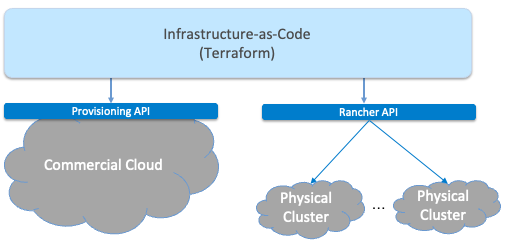
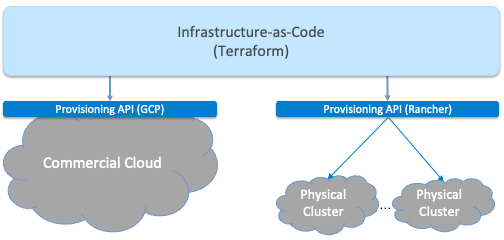
started Terraform section

diff --git a/provision.rst b/provision.rst
@@ -24,10 +24,14 @@ on a commercial cloud) the "rack and connect" step is carried out by
 sequence of API calls rather a hands-on technician.  Of course, we
 want to automate the sequence of calls needed to activate virtual
 infrastructure, which has inspired an approach know as
-*infrastructure-as-code*. The general idea is to document, in a
+*infrastructure-as-code*..\ [#]_ The general idea is to document, in a
 declarative format that can be "executed", exactly what our
 infrastructure looks like. We use Terraform as our open source
 approach to infrastructure-as-code.
+
+.. [#] *Infrastructure-as-Code* is a special case of the more general
+       concept of *Configuration-as-Code*, which we discuss in much
+       more detail in Chapter 4.
 
 When a cloud is built from a combination of virtual and physical
 resources, as is the case for a hybrid cloud like like Aether, we need
@@ -305,14 +309,14 @@ structure.
 3.1.2 Configure and Boot
 ~~~~~~~~~~~~~~~~~~~~~~~~
 
-In addition to installing the hardware and recording the relevant
-facts about the installation, the other necessary step is to configure
-and boot the hardware so that it is "ready" for the automated
-procedures that follow. The goal is to minimize manual configuration
-required to onboard physical infrastructure like that shown in
-:numref:`Figure %s <fig-cable_plan>`, but *zero-touch* is a high
-bar. To illustrate, the bootstrapping steps needed to complete
-provisioning for our example POD currently includes:
+After installing the hardware and recording the relevant facts about
+the installation, the next step is to configure and boot the hardware
+so that it is "ready" for the automated procedures that follow. The
+goal is to minimize manual configuration required to onboard physical
+infrastructure like that shown in :numref:`Figure %s
+<fig-cable_plan>`, but *zero-touch* is a high bar. To illustrate, the
+bootstrapping steps needed to complete provisioning for our example
+POD currently includes:
 
 * Configure the Management Switch to know the set of VLANs being
   used.
@@ -396,69 +400,98 @@ paired with Netplan to configure kernel-level details, there is also
 an Ansible playbook that installs Docker on each compute server and
 fabric switch, and then launches a Docker container running a
 "finalize" image. This image makes calls into the next layer of the
-provisioning stack (e.g., Terraform), effectively signalling that the
-POD is running and ready for further instructions. We are now ready to
-describe that next layer of the stack.
+provisioning stack, effectively signalling that the POD is running and
+ready for further instructions. We are now ready to describe that next
+layer of the stack.
+
 
 3.1.3 Provisioning API
 ~~~~~~~~~~~~~~~~~~~~~~~~
 
 As a result of the steps described so far, we can assume each server
-and switch is up-and-running, and ready to host Kubernetes
-workloads. But we still have a little work to do to prepare our
-bare-metal clusters for the next layer in the provisioning stack,
-essentially establishing parity between the left- and right-hand sides
-of the hybrid cloud shown in :numref:`Figure %s <fig-infra>`. If you
-think in terms of *"What would Google do?"* this reduces to the task
-of setting up a GCP-like API for the bare-metal edge clouds, which in
-principle is not a lot more than the Kubernetes API, but is in
-practice a bit more involved. This layer is is reponsible for
-*managing* Kubernetes.
+and switch is up-and-running, but we still have a little work to do to
+prepare our bare-metal clusters for the next layer in the provisioning
+stack, essentially establishing parity between the left- and
+right-hand sides of the hybrid cloud shown in :numref:`Figure %s
+<fig-infra>`. If you think in terms of *"What would Google do?"* this
+reduces to the task of setting up a GCP-like API for the bare-metal
+edge clouds, which in principle is not a lot more than the Kubernetes
+API, but is in practice also responsible for *managing* Kubernetes
+(rather than just *using* Kubernetes).
 
-More specifically, we need an API that makes can be used to set up
-accounts (and associated credentials) for using a given Kubernetes
-cluster. It also provides a way to manage independent projects that
-are to be deployed on a given cluster, which primarily correponds to
-setting up independant name spaces for each.
+In short, the remaining task is to turn a set of interconnected
+servers and switches into a Kubernetes cluster. For starters, the API
+needs to provide a means to install and configure Kubernetes on each
+physical cluster. This includes specifying which version of Kubernetes
+to run, selecting the right combination of CNI plugins (virtual
+network adaptors), and connecting Kubernetes to the local network (and
+any VPNs it might need). This layer also needs to provide a means to
+set up accounts (and associated credentials) for accessing and using
+each Kubernetes cluster, as well as provide a way to manage
+independent projects that are to be deployed on a given cluster (i.e.,
+manage name spaces for multiple applications). (Rather than go into
+more detail about prepping the cluster to support Kubernetes
+workloads, we discuss the challenge in the following section, in the
+context of the Infrastructure-as-Code layer that *uses* this API.)
 
-.. todo::
-
-   This woefully inadequate, but it's not clear what value Rancher
-   provides anymore. We proabably also need to talk about how projects
-   overlap, and we are now using a reduced subset of Rancher.
-
-As an example, Aether currently uses Rancher as its Kubernetes
-management API, with one centralized instance of Rancher being
-responsible for managing all the edge sites. This results in the
+As an example, Aether currently uses Rancher to manage Kubernetes on
+the bare-metal clusters, with one centralized instance of Rancher
+being responsible for managing all the edge sites. This results in the
 configuration shown in :numref:`Figure %s <fig-rancher>`, which to
-emphasize its scope, showns multiple edge clusters.
+emphasize its scope, shows multiple edge clusters.
 
 .. _fig-rancher:
 .. figure:: figures/Slide21.png
     :width: 450px
     :align: center
 
-    Resource Provisioning in a hybrid cloud that includes both
-    physical and virtual resources.
+    Provisioning in a hybrid cloud that includes includes an API layer
+    for managing Kubernetes running on multiple bare-metal clusters.
 
-We're done here, but this is as good of place as any to note that not
-all Kubernetes are equal:
+We conclude this discussion by noting that while we often treat
+Kubernetes as though it is an industry-wide standard, it is not. Each
+cloud provider offers its own customized version:
 
 * Microsoft Azure offers the Azure Kubernetes Service (AKS)
 * AWS offers the Amazon Elastic Kubernetes Service (EKS)
 * Google Cloud offers the Google Kubernetes Engine (GKE)
-* Our home-grown version (open source)
+* Aether edges run the Rancher-certified version of Kubernetes (RKE)
 
-We don't resolve this issue here, but just note that portability is
-not quite as simple as the above discussion might suggest.
+We don't resolve this issue, which is the subject of ongoing work
+across the industry, but just to caution that the portability of
+microservices across Kubernetes clusters is not as simple as the
+discussion might suggest. Our job, at the cloud management layer, is
+to provide operators with a means to expose and manage this
+heterogeneity.
 
 3.2 Infrastructure-as-Code
 --------------------------
 
-All about Terraform, and the story behind GitOps and
-Infrastructure-as-Code... Need to emphasize the hybrid/multi-cloud
-aspect since one could argue 3.1.3 left a single edge site in a
-sufficiently reponsive state.
+All Terraform provides is a declarative way of saying what your want
+from your infrastructure; how the assorted Kubernetes clusters (some
+running at the edges on bare-metal and some instantiated in GCP) are
+to be configured. Since declarative suggests WSIWG, the best thing to
+do is walk through an example. *[Need some setup to understand .tf
+vs .tfvars (and modules). Also give a conceptual overview. Remember,
+Terraform just says what; the Provisioning API makes it so.]*
 
+Top level says what kinds of clusters are in play...
 
+.. literalinclude:: code/provider.tf
 
+Then fill in details (define values) for a couple examples. First is
+the GCP cluster we run AMP in:
+
+.. literalinclude:: code/cluster-gcp_val.tfvars
+
+And then the cluster we run at edge site X:		    
+
+.. literalinclude:: code/cluster-edge_val.tfvars
+
+GCP does a lot of work for us, but we need to provide more details
+about how Kubernetes is to be configured on the bare-metal edge
+clusters (an RKE-specific module):
+
+.. literalinclude:: code/main-rke.tf
+		    
+Then tie up some loose ends (e.g., VPNs)...

diff --git a/intro.rst b/intro.rst
@@ -547,6 +547,44 @@ Infrastructure-as-a-Service (IaaS), although later chapters will
 describe how to introduce VMs as an optional way to provision the
 underlying infrastructure for that PaaS.
 
+.. sidebar:: What's the Master Plan?
+
+  Beyond the narrow issue specific technologies, there is a bigger
+  issue of how one makes engineering choices about what combination of
+  software packages to use. Ignoring the plethora of commercial
+  offerings, just the number of open source projects at the Linux
+  Foundation and the Apache Foundation available to help you build and
+  operate a cloud is (by our count) approaching 100. These projects
+  are largely independent, and in many cases, competing for mindshare.
+  This results in significant overlap in functionality, with any Venn
+  diagram you try to draw constantly shifting over time as projects
+  add and deprecate features.
+
+  This is all to say, there is no master plan for what a cloud
+  management stack should look like. If you start with component X as
+  the centerpiece of your approach—perhaps because it claims to solve
+  your most pressing set of problems today—you will end up adding
+  dozens of other components over time to fully complete the system.
+  Moreover, the end result will likely look different from the system
+  someone else constructs starting with component Y. There simply is
+  no consensus framework for which you get to select a component from
+  column A, a second complementary component from column B, and so on.
+
+  This is also true for the Aether cloud we use as an exemplar. As a
+  consequence, this book takes a first principles approach: Start by
+  identifying the fundamental set of requirements to be addressed;
+  next explore the design space and available engineering choices; and
+  only as a final step select an existing software component (or
+  implement a new one if necessary).  This approach naturally results
+  in a solution that assembles *many* smaller components—and tends to
+  avoid bundled/multi-faceted solutions—which is consistent with the
+  value proposition of disaggregation in the first place. This does
+  not inoculate you from having to evolve the system over time, but it
+  does help you approach the topic with your eyes open to the full
+  scope and complexity of the design space. And even if you end up
+  with a bundled solution, understanding all the trade-offs being made
+  under the covers will help you make a more informed choice.
+
 1.4 Future of the Sys-Admin
 ~~~~~~~~~~~~~~~~~~~~~~~~~~~
 
